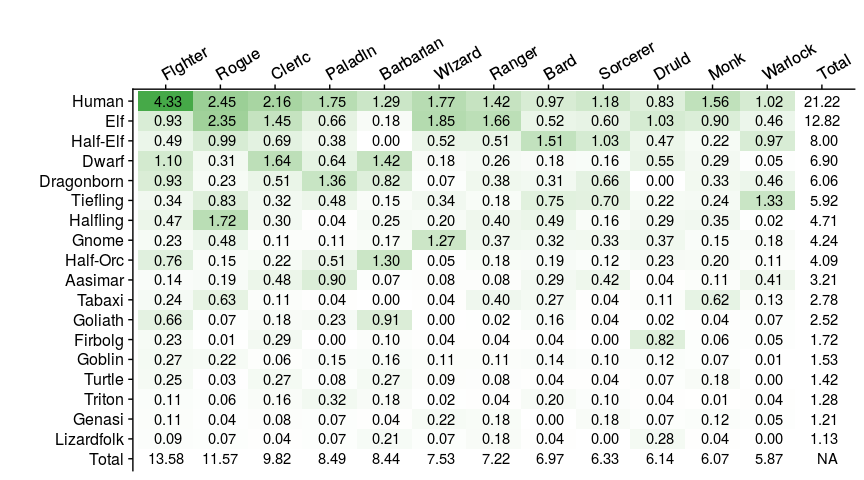
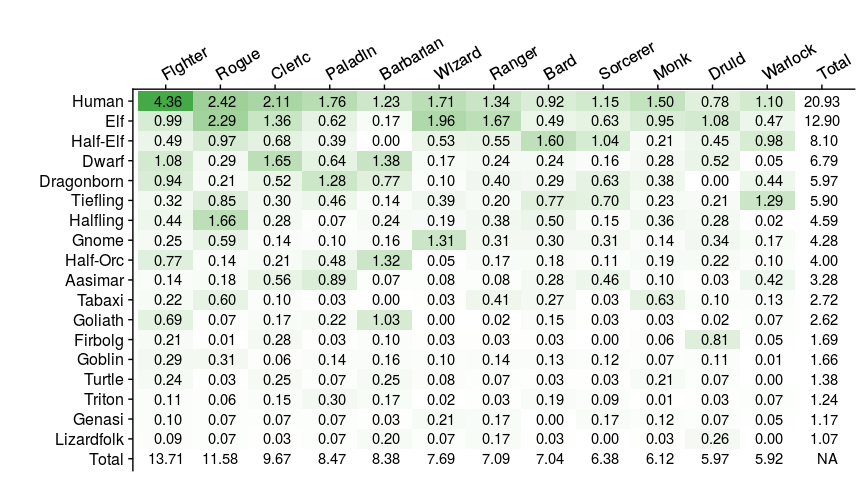
auto update

diff --git a/README.md b/README.md
@@ -21,7 +21,7 @@ web applications [printSheetApp](https://oganm.com/shiny/printSheetApp)
 and [interactiveSheet](https://oganm.com/shiny/interactiveSheet). It is
 a superset of the dataset I previously released under
 [oganm/dndstats](https://oganm.github.io/dndstats) with a much larger
-sample (2775 characters) size and more data fields. It was inspired by
+sample (2939 characters) size and more data fields. It was inspired by
 the
 [FiveThirtyEight](https://fivethirtyeight.com/features/is-your-dd-character-rare/)
 article on race/class proportions and the data seems to correlate well
@@ -313,7 +313,7 @@ adding additional information about the spell.
     “crossbow, hand”). Here the weapons that weren’t matched were
     spell names or homebrew weapons.
 
-80% of all weapons parsed did not require any modification. 14% of were
+81% of all weapons parsed did not require any modification. 14% of were
 only able to be matched through the heuristics. A manual examination of
 a random seleciton of these matches revealed 1/200 mistake. 5% of the
 weapon entries were not matched to an official weapon.
